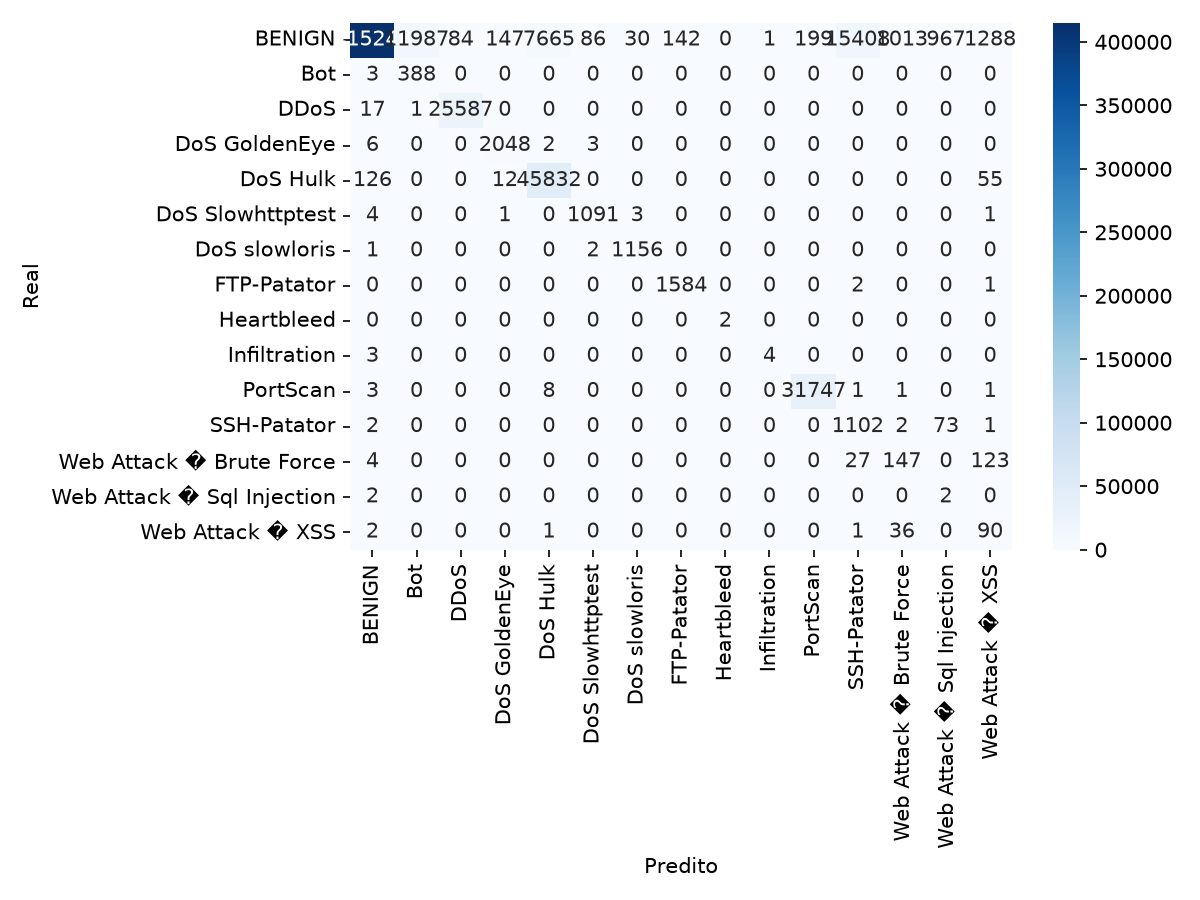
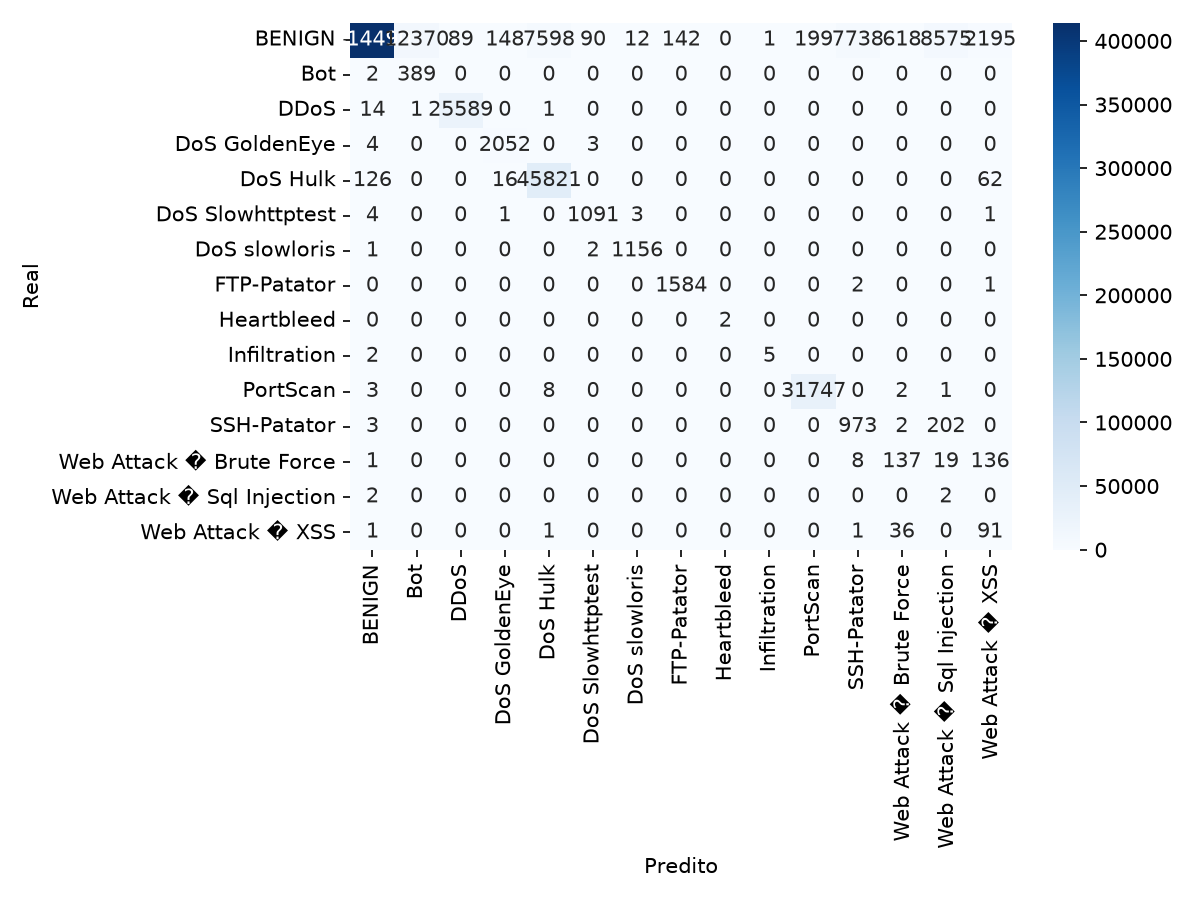
Melhora M2 (SMOTE) e M3 (max_samples) com base em resultados reais
M2 (classificacao): adiciona balanceamento por SMOTE das classes raras
(imbalanced-learn ja estava nas dependencias). Superamostra classes com
menos de 10 mil exemplos no split de treino, sem tocar nas ja bem
representadas. Resultado real no CICIDS2017: SSH-Patator e Web Attack
(Brute Force) melhoram (precisao quase dobra); Bot nao muda (precisao
0.03 mesmo com 10 mil exemplos sinteticos) -- overlap estatistico com
trafego normal, nao escassez de dados. Novo default liga SMOTE
automaticamente (--no-smote desativa, --balance-target ajusta o alvo).

M3 (anomalias): descoberto que IsolationForest usava max_samples='auto'
(256 amostras por arvore) contra 1.59M flows normais de treino -- pouco
para capturar a heterogeneidade real do trafego. Subir para max_samples=
8192 (novo default) melhora AUC-ROC de 0.74 para 0.82 sem mudar mais nada.
Recalibrar --contamination foi testado de novo com o modelo melhorado:
so troca precisao por recall, nao move a AUC -- confirma que o ganho veio
da arvore ver mais dado, nao do limiar.

Atualiza README com os numeros reais finais (M2 e M3), roadmap e
limitacoes conhecidas. Modelos .joblib continuam fora do repositorio
(.gitignore); relatorios e matrizes de confusao atualizados como evidencia.

diff --git a/src/siadar/classification/train.py b/src/siadar/classification/train.py
@@ -11,10 +11,12 @@ from __future__ import annotations
 
 import argparse
 import os
+from collections import Counter
 
 import joblib
 import matplotlib.pyplot as plt
 import seaborn as sns
+from imblearn.over_sampling import SMOTE
 from sklearn.ensemble import RandomForestClassifier
 from sklearn.metrics import ConfusionMatrixDisplay, classification_report, confusion_matrix
 from sklearn.model_selection import RandomizedSearchCV, train_test_split
@@ -30,11 +32,33 @@ PARAM_DIST = {
 }
 
 
+def _balance_with_smote(X_train, y_train, target_size: int, random_state: int):
+    """Superamostra (SMOTE) as classes com menos que target_size exemplos --
+    nao mexe nas classes ja bem representadas (evita explodir o tempo de
+    treino tentando igualar tudo a BENIGN, que tem milhoes de linhas)."""
+    class_counts = Counter(y_train)
+    sampling_strategy = {cls: target_size for cls, count in class_counts.items() if count < target_size}
+    if not sampling_strategy:
+        print("Nenhuma classe abaixo do alvo de balanceamento -- SMOTE nao aplicado.")
+        return X_train, y_train
+
+    min_count = min(class_counts[c] for c in sampling_strategy)
+    k_neighbors = max(1, min(5, min_count - 1))
+    print(f"Balanceando {len(sampling_strategy)} classe(s) raras para ~{target_size} "
+          f"amostras cada (SMOTE, k_neighbors={k_neighbors})...")
+    smoter = SMOTE(sampling_strategy=sampling_strategy, k_neighbors=k_neighbors, random_state=random_state)
+    X_train, y_train = smoter.fit_resample(X_train, y_train)
+    print(f"Treino balanceado: {len(y_train)} amostras (antes: {sum(class_counts.values())})")
+    return X_train, y_train
+
+
 def train(
     dataset_path: str,
     model_out: str,
     test_size: float = 0.2,
     do_search: bool = False,
+    balance: bool = True,
+    balance_target: int = 10_000,
     random_state: int = 42,
 ):
     print(f"Carregando dataset de {dataset_path} ...")
@@ -47,6 +71,9 @@ def train(
     X_train, X_test, y_train, y_test = train_test_split(
         X, y, test_size=test_size, stratify=y, random_state=random_state
     )
+
+    if balance:
+        X_train, y_train = _balance_with_smote(X_train, y_train, balance_target, random_state)
 
     if do_search:
         print("Rodando RandomizedSearchCV (pode demorar)...")
@@ -109,9 +136,16 @@ def main() -> None:
     parser.add_argument("--model-out", default="models/rf_classifier.joblib")
     parser.add_argument("--test-size", type=float, default=0.2)
     parser.add_argument("--search", action="store_true", help="Rodar RandomizedSearchCV")
+    parser.add_argument("--no-smote", action="store_true",
+                         help="Desativa o balanceamento por SMOTE das classes raras")
+    parser.add_argument("--balance-target", type=int, default=10_000,
+                         help="Classes com menos amostras que isso sao superamostradas ate esse valor (default 10000)")
     args = parser.parse_args()
 
-    train(args.dataset, args.model_out, test_size=args.test_size, do_search=args.search)
+    train(
+        args.dataset, args.model_out, test_size=args.test_size, do_search=args.search,
+        balance=not args.no_smote, balance_target=args.balance_target,
+    )
 
 
 if __name__ == "__main__":

diff --git a/src/siadar/anomaly/train.py b/src/siadar/anomaly/train.py
@@ -32,6 +32,7 @@ def train(
     model_out: str,
     contamination: float = 0.05,
     test_size: float = 0.3,
+    max_samples=8192,
     random_state: int = 42,
 ):
     print(f"Carregando dataset de {dataset_path} ...")
@@ -52,6 +53,7 @@ def train(
     model = IsolationForest(
         n_estimators=200,
         contamination=contamination,
+        max_samples=max_samples,
         random_state=random_state,
         n_jobs=-1,
     )
@@ -105,9 +107,20 @@ def main() -> None:
     parser.add_argument("--contamination", type=float, default=0.05,
                          help="Proporcao esperada de anomalias no trafego real (default 0.05)")
     parser.add_argument("--test-size", type=float, default=0.3)
+    parser.add_argument("--max-samples", default="8192",
+                         help="Amostras por arvore (default 8192; 'auto' usa min(256, n), "
+                              "o padrao do scikit-learn). Um numero maior da a cada arvore uma "
+                              "visao mais ampla do trafego normal (medido: AUC 0.74 -> 0.82 "
+                              "saindo de 256 para 8192 no CICIDS2017 real), ao custo de treino "
+                              "mais lento.")
     args = parser.parse_args()
 
-    train(args.dataset, args.model_out, contamination=args.contamination, test_size=args.test_size)
+    max_samples = args.max_samples
+    if max_samples != "auto":
+        max_samples = int(max_samples)
+
+    train(args.dataset, args.model_out, contamination=args.contamination,
+          test_size=args.test_size, max_samples=max_samples)
 
 
 if __name__ == "__main__":

diff --git a/README.md b/README.md
@@ -158,7 +158,7 @@ O que está listado abaixo foi executado e verificado, não é projeção.
   público e o extrator de captura ao vivo — a mesma peça de código garante que
   modelo treinado e tráfego capturado nunca "falem idiomas diferentes".
 
-### Resultado real — Triagem de tráfego (M2, Random Forest sobre o CICIDS2017 completo)
+### Resultado real — Triagem de tráfego (M2, Random Forest + SMOTE sobre o CICIDS2017 completo)
 
 | Classe | Precision | Recall | Amostras (teste) |
 |---|---|---|---|
@@ -166,26 +166,40 @@ O que está listado abaixo foi executado e verificado, não é projeção.
 | DDoS | 1.00 | 1.00 | 25.605 |
 | PortScan | 0.99 | 1.00 | 31.761 |
 | DoS Hulk | 0.86 | 1.00 | 46.025 |
+| Infiltration | 0.83 | 0.71 | 7 |
+| SSH-Patator | 0.11 | 0.82 | 1.180 |
+| Web Attack (Brute Force) | 0.17 | 0.46 | 301 |
 | Bot | 0.03 | 0.99 | 391 |
-| SSH-Patator | 0.07 | 0.93 | 1.180 |
 | Web Attack (SQL Injection) | 0.00 | 0.50 | 4 |
 
-**Accuracy geral: 93% · F1 ponderado: 0,95.** Nas classes bem representadas
-o modelo é excelente; nas classes raras (poucas dezenas/centenas de
-exemplos contra milhões de linhas normais) a precisão despenca — o
-clássico problema de **classes desbalanceadas**. Mitigação prevista no
-roadmap (SMOTE / `imbalanced-learn`, já no `requirements.txt`).
+**Accuracy geral: 93% · F1 ponderado: 0,95.** As classes bem representadas
+seguem excelentes. Para as raras, testamos balancear o treino com **SMOTE**
+(`imbalanced-learn`, superamostrando classes com menos de 10 mil exemplos)
+— resultado real, não mágico: SSH-Patator e Web Attack (Brute Force)
+melhoraram (precisão quase dobrou), Infiltration melhorou bastante, mas
+**Bot não mudou nada** (precisão continua em 0,03 mesmo com 10 mil exemplos
+sintéticos). Conclusão: para Bot, o problema não é falta de exemplos, é o
+tráfego ser estatisticamente parecido demais com o normal nessas 29
+features — SMOTE não resolve overlap de distribuição, só resolve escassez
+de dados. Próximo passo real seria features adicionais específicas para
+esse padrão, não mais dados sintéticos.
 
 ### Resultado real — Detecção de anomalias (M3, Isolation Forest treinado só com BENIGN)
 
-**Accuracy: 72% · AUC-ROC: 0,74 · Recall em ataques: 45%.** Testamos
-recalibrar o limiar de decisão (`--contamination` de 0,05 para 0,15): o
-recall praticamente não mudou (45% → 46%) e a acurácia geral piorou — ou
-seja, 0,74 de AUC é o teto real do modelo atual com esse conjunto de
-features, não um problema de calibração. É um detector honesto, mas
-modesto: metade dos ataques passa despercebido sem o sinal do módulo de
-triagem. Trabalho futuro natural: features adicionais, ou testar
-Autoencoder/One-Class SVM como o guia original sugeria.
+**Accuracy: 73% · AUC-ROC: 0,82 · Recall em ataques: 46% · Precisão: 88%.**
+A primeira versão (parâmetros padrão do scikit-learn) tinha AUC 0,74:
+descobrimos que `max_samples="auto"` limita cada árvore a **256** amostras
+por padrão — pouquíssimo diante de 1,59 milhão de flows normais de treino,
+que cobrem tráfego bem heterogêneo (web, streaming, VoIP...). Subindo para
+`max_samples=8192` (agora o padrão do módulo), a AUC saltou para 0,82 sem
+tocar em nenhuma outra peça do sistema. Já recalibrar só o limiar de decisão
+(`--contamination`) testamos antes e depois dessa mudança: sempre trocou
+precisão por um pouco de recall, nunca moveu a AUC — ou seja, o ganho real
+veio da árvore enxergar mais dado, não do limiar. Ainda é um detector
+complementar, não autossuficiente (quase metade dos ataques passa batido
+sozinho) — combinado com o M2 (que já classifica DDoS/PortScan/DoS com
+quase 100% de acerto), a cobertura prática é maior que qualquer um dos dois
+isolado.
 
 Os relatórios completos (`classification_report`, matrizes de confusão)
 estão em [`models/`](models/).
@@ -283,14 +297,16 @@ pytest
   de treino em casos extremos (fragmentação, retransmissões).
 - Timeout de flow fixo em 120s (mesma heurística do CICFlowMeter).
 - O CICIDS2017 real tem classes severamente desbalanceadas (ex.: 391
-  amostras de `Bot` contra 2,27 milhões de `BENIGN`); o classificador
-  baseline (M2) tem precisão baixa nas classes raras — ver
-  [Prova de conceito](#prova-de-conceito--o-que-já-funciona) e "Roadmap".
-- O detector de anomalias (M3) atinge AUC-ROC 0,74 no CICIDS2017 real —
-  detecta menos da metade dos ataques sozinho; recalibrar o limiar
-  (`--contamination`) não melhora isso, é o teto do modelo atual com esse
-  conjunto de features. Útil como sinal complementar ao M2, não como
-  detector isolado.
+  amostras de `Bot` contra 2,27 milhões de `BENIGN`). SMOTE (default no M2)
+  ajuda quando o problema é escassez de exemplos (SSH-Patator, Web Attack
+  Brute Force), mas não resolve quando o tráfego malicioso se sobrepõe
+  estatisticamente ao normal nessas 29 features (`Bot`, que não melhorou
+  nada) — ver [Prova de conceito](#prova-de-conceito--o-que-já-funciona).
+- O detector de anomalias (M3) atinge AUC-ROC 0,82 no CICIDS2017 real —
+  detecta menos da metade dos ataques sozinho, mesmo após ajustar
+  `max_samples` (o ganho real veio daí, não de recalibrar o limiar
+  `--contamination`, que só troca precisão por recall sem mover a AUC).
+  Útil como sinal complementar ao M2, não como detector isolado.
 - O dataset original do CICIDS2017 tem valores de `Flow Duration`
   negativos em algumas linhas (artefato conhecido do CICFlowMeter) —
   `load_cicids.py` não filtra isso hoje.
@@ -310,8 +326,10 @@ pytest
 - [x] Módulo 2 — Classificação de tráfego (Random Forest baseline)
 - [x] Módulo 3 — Detecção de anomalias (Isolation Forest)
 - [x] Validação com o CICIDS2017 real (2,83M flows) — números em [Prova de conceito](#prova-de-conceito--o-que-já-funciona)
-- [ ] Tratar desbalanceamento de classes no M2 (SMOTE / `imbalanced-learn`, já nas dependências)
-- [ ] Melhorar o M3 além do teto de AUC 0,74 (novas features, ou testar Autoencoder/One-Class SVM)
+- [x] Balancear classes raras no M2 com SMOTE (ajudou SSH-Patator/Web Attack Brute Force; `Bot` continua precisão 0,03 — overlap de features, não escassez de dados)
+- [x] Tunar hiperparâmetros do M3 (`max_samples`: AUC 0,74 → 0,82)
+- [ ] Melhorar M2 além do SMOTE para classes com overlap de features (`Bot`) — provavelmente precisa de features novas
+- [ ] Melhorar M3 além do teto de AUC 0,82 (novas features, ou testar Autoencoder/One-Class SVM)
 - [ ] Módulo 4 — UEBA (baseline comportamental por usuário, clustering)
 - [ ] Módulo 5 — Predição de falhas e vulnerabilidades
 - [ ] Dashboard (Grafana ou Streamlit) para visualização em tempo real
